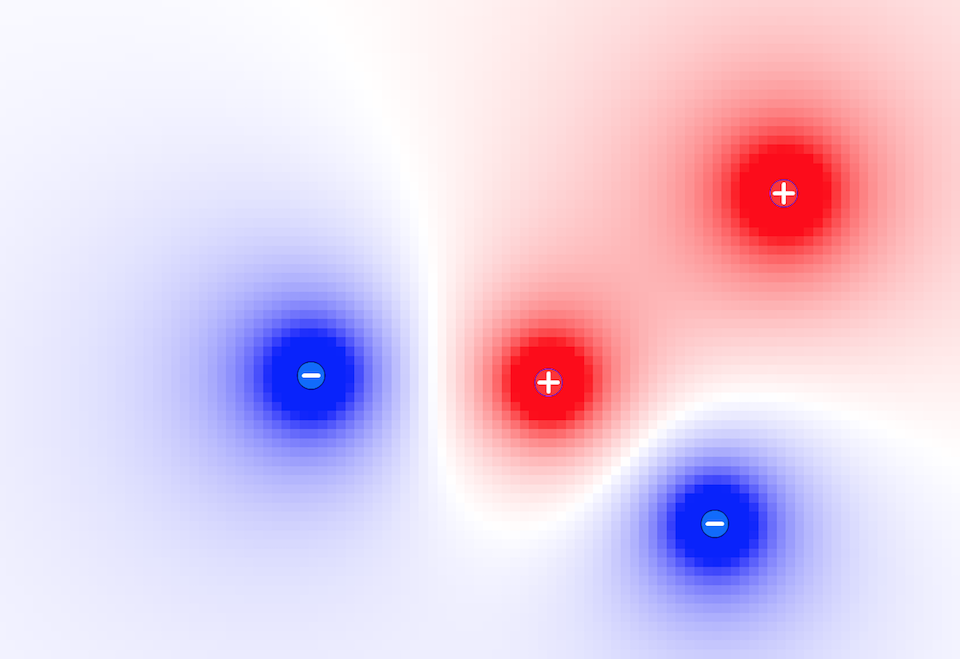
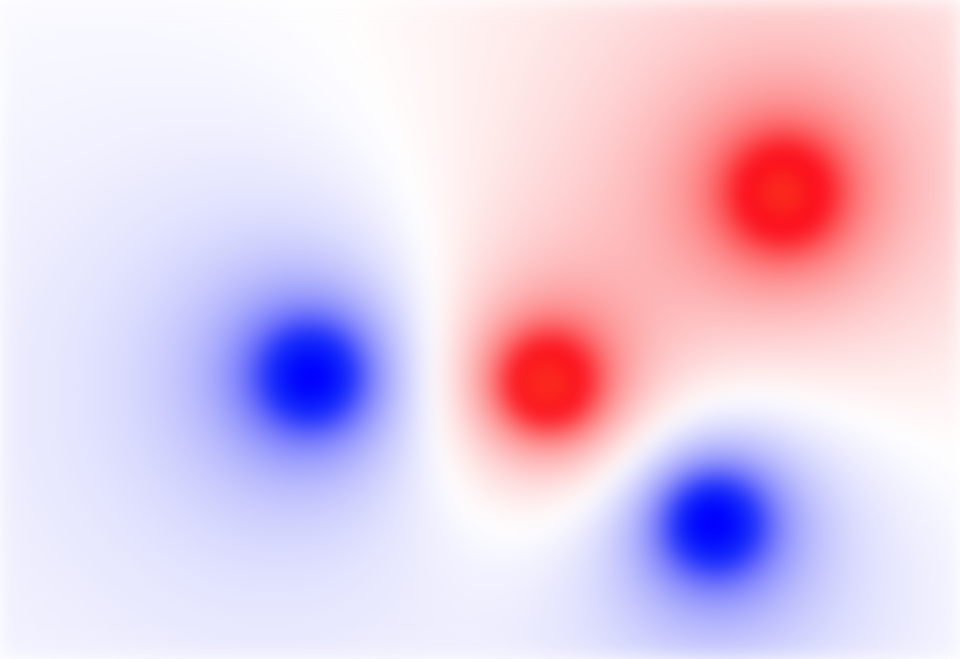
I changed the dimensions so that the screen could be divided into an even number of pixels, and now the grid looks a lot better, and everything else will too, I'm sure.

diff --git a/charges-and-fields/src/js/views/scene.js b/charges-and-fields/src/js/views/scene.js
@@ -47,10 +47,10 @@ define(function(require) {
 
         initMVT: function() {
             var heightInMeters = Constants.SIM_HEIGHT_IN_METERS;
-            var scale = (this.height - 2) / heightInMeters;
+            var scale = this.height / heightInMeters;
             var widthInMeters = Math.ceil(this.width / scale);
             
-            this.viewOriginX = -(widthInMeters / 2) * scale;
+            this.viewOriginX = Math.round(this.width / 2 - (widthInMeters / 2) * scale);
             this.viewOriginY = 0;
 
             this.mvt = ModelViewTransform.createSinglePointScaleInvertedYMapping(
@@ -71,11 +71,11 @@ define(function(require) {
 
                 lineWidth: 2,
                 lineColor: SceneView.GRID_COLOR,
-                lineAlpha: SceneView.GRID_ALPHA,
+                lineAlpha: 0.5,
 
                 smallLineColor: SceneView.GRID_COLOR,
                 smallLineWidth: 1,
-                smallLineAlpha: SceneView.GRID_ALPHA
+                smallLineAlpha: 0.2
             });
             //this.gridView.hide();
             this.stage.addChild(this.gridView.displayObject);

diff --git a/charges-and-fields/src/js/constants.js b/charges-and-fields/src/js/constants.js
@@ -11,7 +11,7 @@ define(function (require) {
      **                                                                     **
      *************************************************************************/
 
-    Constants.SIM_HEIGHT_IN_METERS = 4.5; // Meters
+    Constants.SIM_HEIGHT_IN_METERS = 6; // Meters
 
 
 
@@ -28,7 +28,6 @@ define(function (require) {
     SceneView.SHORT_SCREEN_PANEL_MARGIN = 13;
 
     SceneView.GRID_COLOR = '#000';
-    SceneView.GRID_ALPHA = 0.15;
     SceneView.GRID_MAJOR_SIZE_IN_METERS = 0.5;
     SceneView.GRID_MINOR_SIZE_IN_METERS = 0.1;
 

diff --git a/charges-and-fields/src/styles/variables.less b/charges-and-fields/src/styles/variables.less
@@ -6,5 +6,5 @@
 @panel-width: 178px;
 @panel-bg: rgba(240, 240, 240, 0.8);//rgba(237, 237, 237, 0.65); //@gray-lightest; // rgba(228, 228, 228, 0.5) if we want it to be the same color but half opacity
 
-@scene-height: 620px;
+@scene-height: 600px;
 @short-scene-height: 463px;
